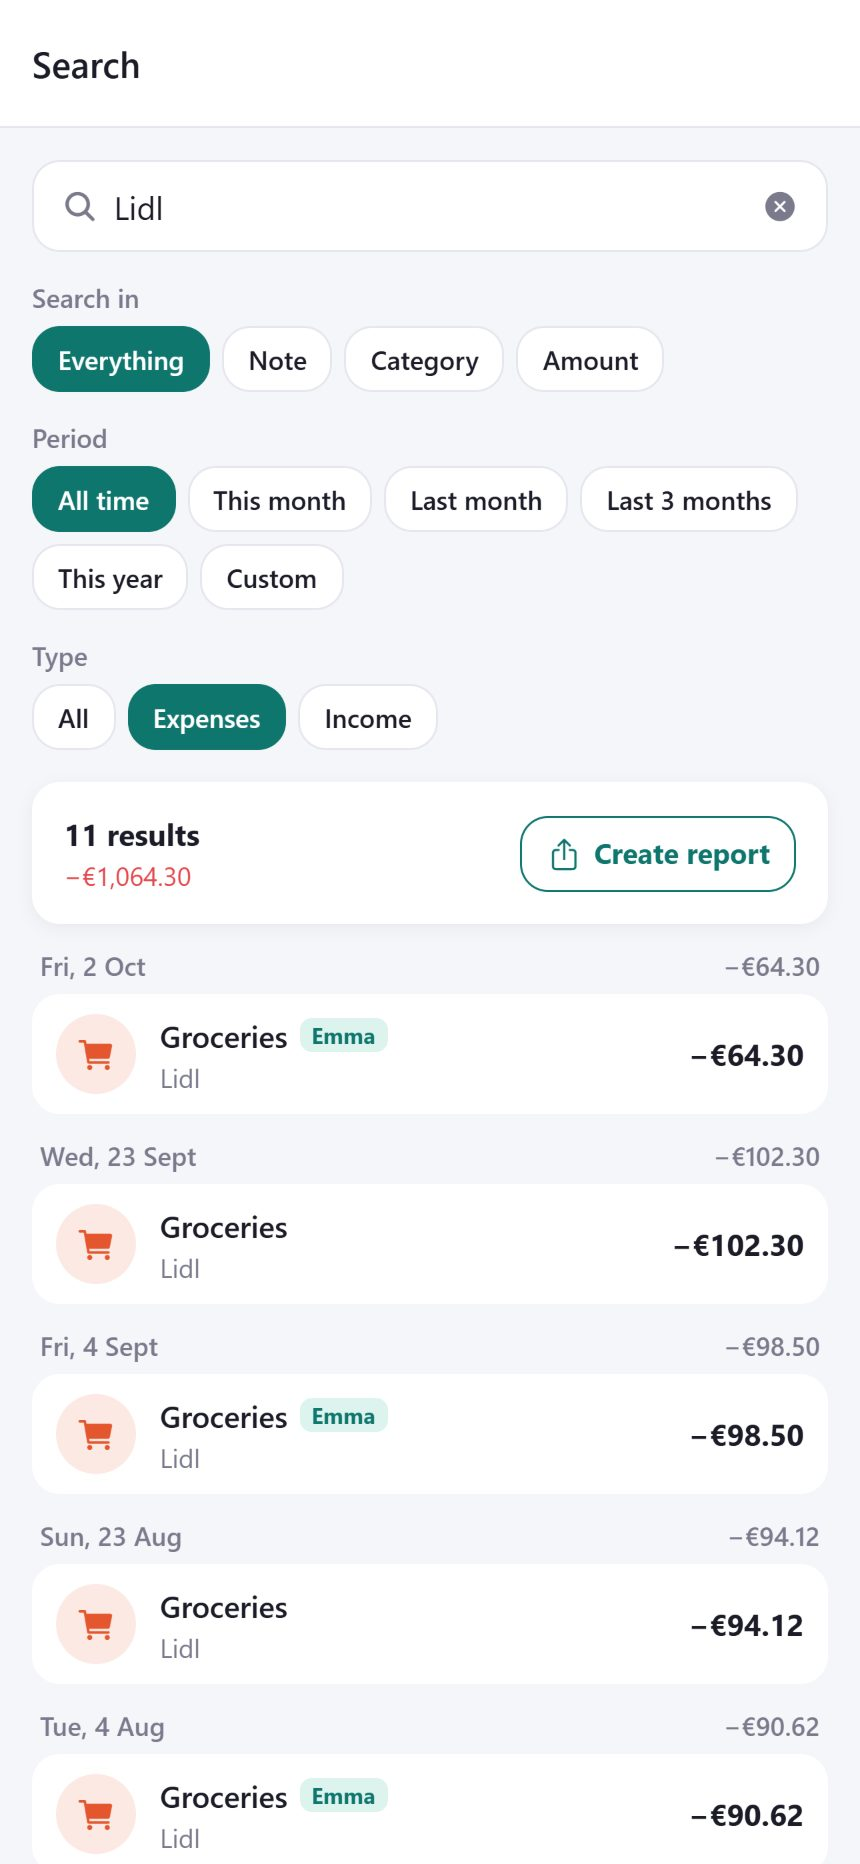
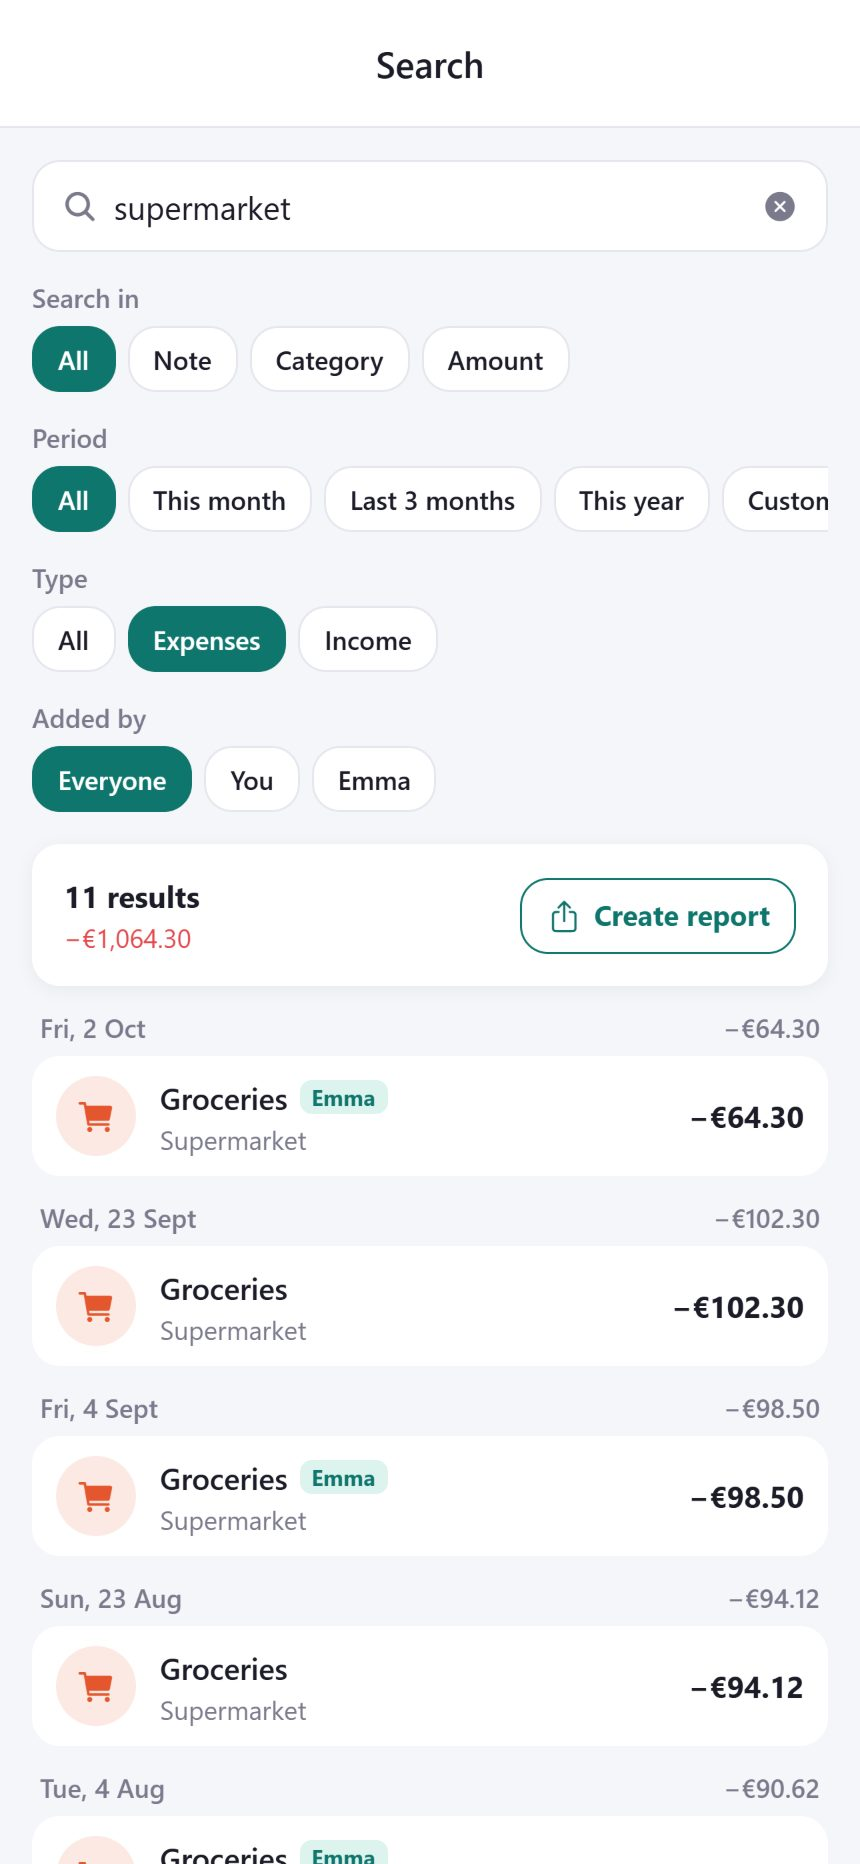
Examples: supermarket instead of Lidl (voice text, screenshots 2-3)

diff --git a/index.html b/index.html
@@ -91,7 +91,7 @@
           <div class="card">
             <div class="icon">⚡</div>
             <h3>Type it. Say it. Done.</h3>
-            <p>Say “45 groceries Lidl” and FamCents fills in the details, so tracking money doesn’t become another daily chore.</p>
+            <p>Say “45 groceries supermarket” and FamCents fills in the details, so tracking money doesn’t become another daily chore.</p>
           </div>
           <div class="card">
             <div class="icon">📊</div>
@@ -117,11 +117,11 @@
             <figcaption>Simple, shared, private</figcaption>
           </figure>
           <figure class="shot-item">
-            <div class="shot"><img src="/assets/screenshots/2-together.jpg" alt="Search for Lidl: results from both phones, with labels showing what your partner added" loading="lazy" width="430" height="932"></div>
+            <div class="shot"><img src="/assets/screenshots/2-together.jpg" alt="Search for supermarket: results from both phones, with labels showing what your partner added" loading="lazy" width="430" height="932"></div>
             <figcaption>Found in seconds</figcaption>
           </figure>
           <figure class="shot-item">
-            <div class="shot"><img src="/assets/screenshots/3-add.jpg" alt="Adding an expense by voice: “45.50 groceries Lidl weekly shop”" loading="lazy" width="430" height="932"></div>
+            <div class="shot"><img src="/assets/screenshots/3-add.jpg" alt="Adding an expense by voice: “45.50 groceries supermarket”" loading="lazy" width="430" height="932"></div>
             <figcaption>Type it. Say it. Done.</figcaption>
           </figure>
           <figure class="shot-item">

diff --git a/support/index.html b/support/index.html
@@ -123,7 +123,7 @@
         <h2>Voice and app lock</h2>
         <details>
           <summary>Voice entry doesn’t understand me</summary>
-          <p>Say the amount first, then the category, then a note, for example “45 groceries Lidl”. Check that FamCents
+          <p>Say the amount first, then the category, then a note, for example “45 groceries supermarket”. Check that FamCents
             may use the microphone and speech recognition in your phone’s Settings.</p>
         </details>
         <details>
